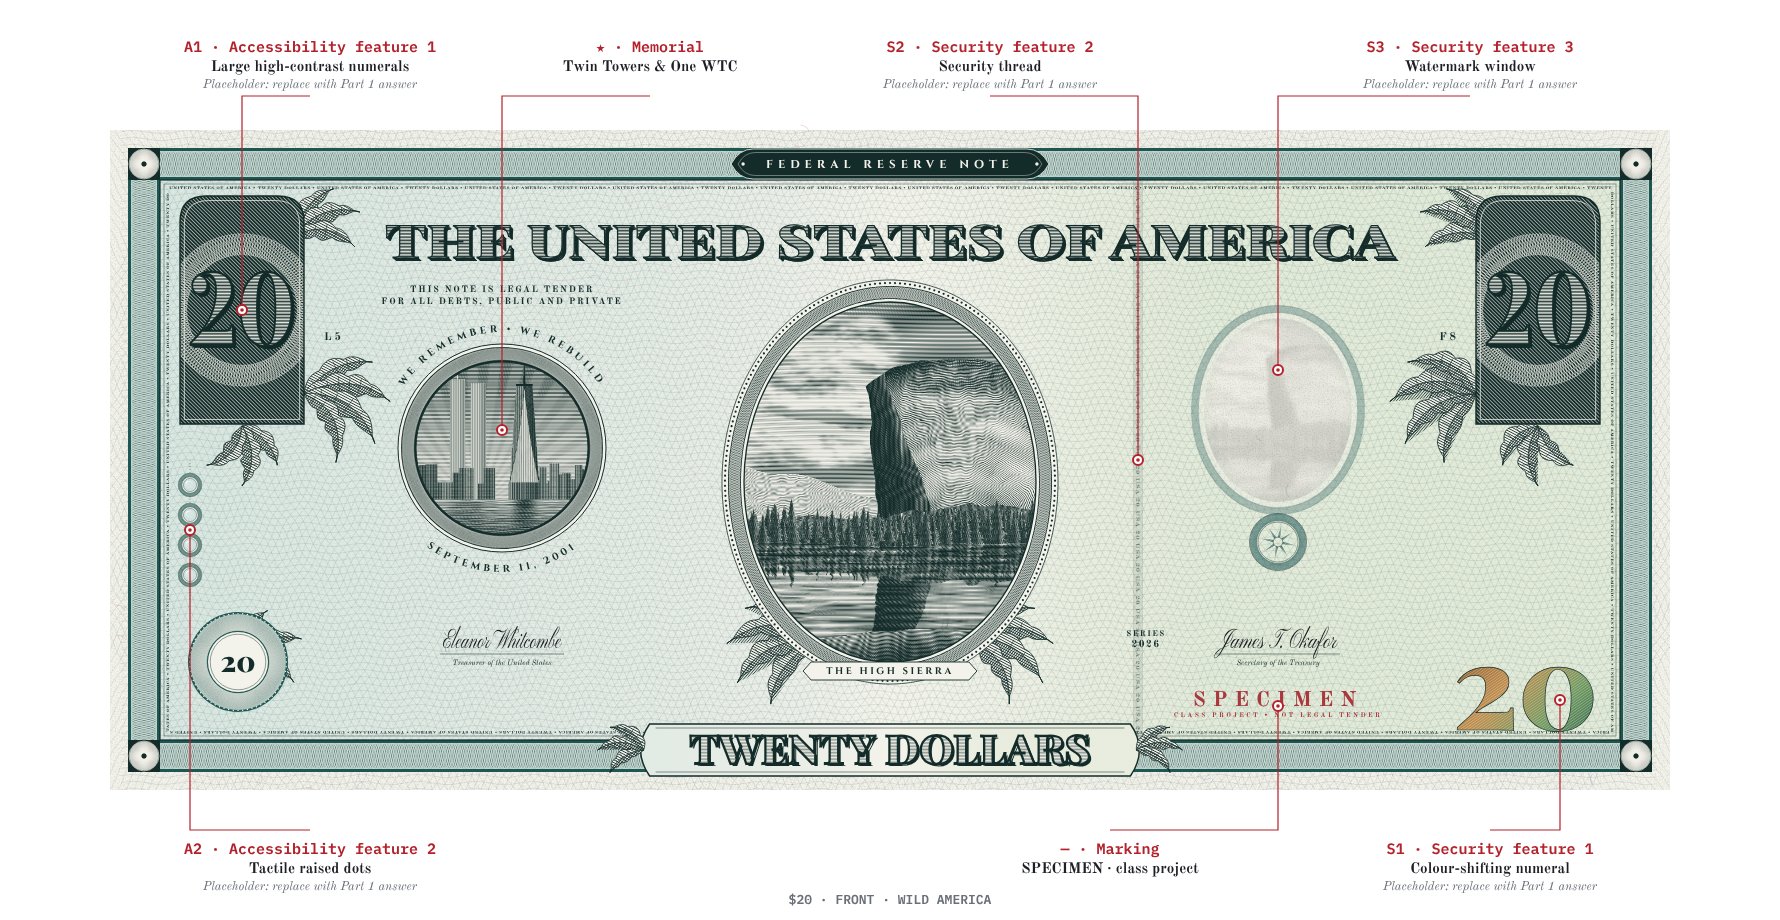
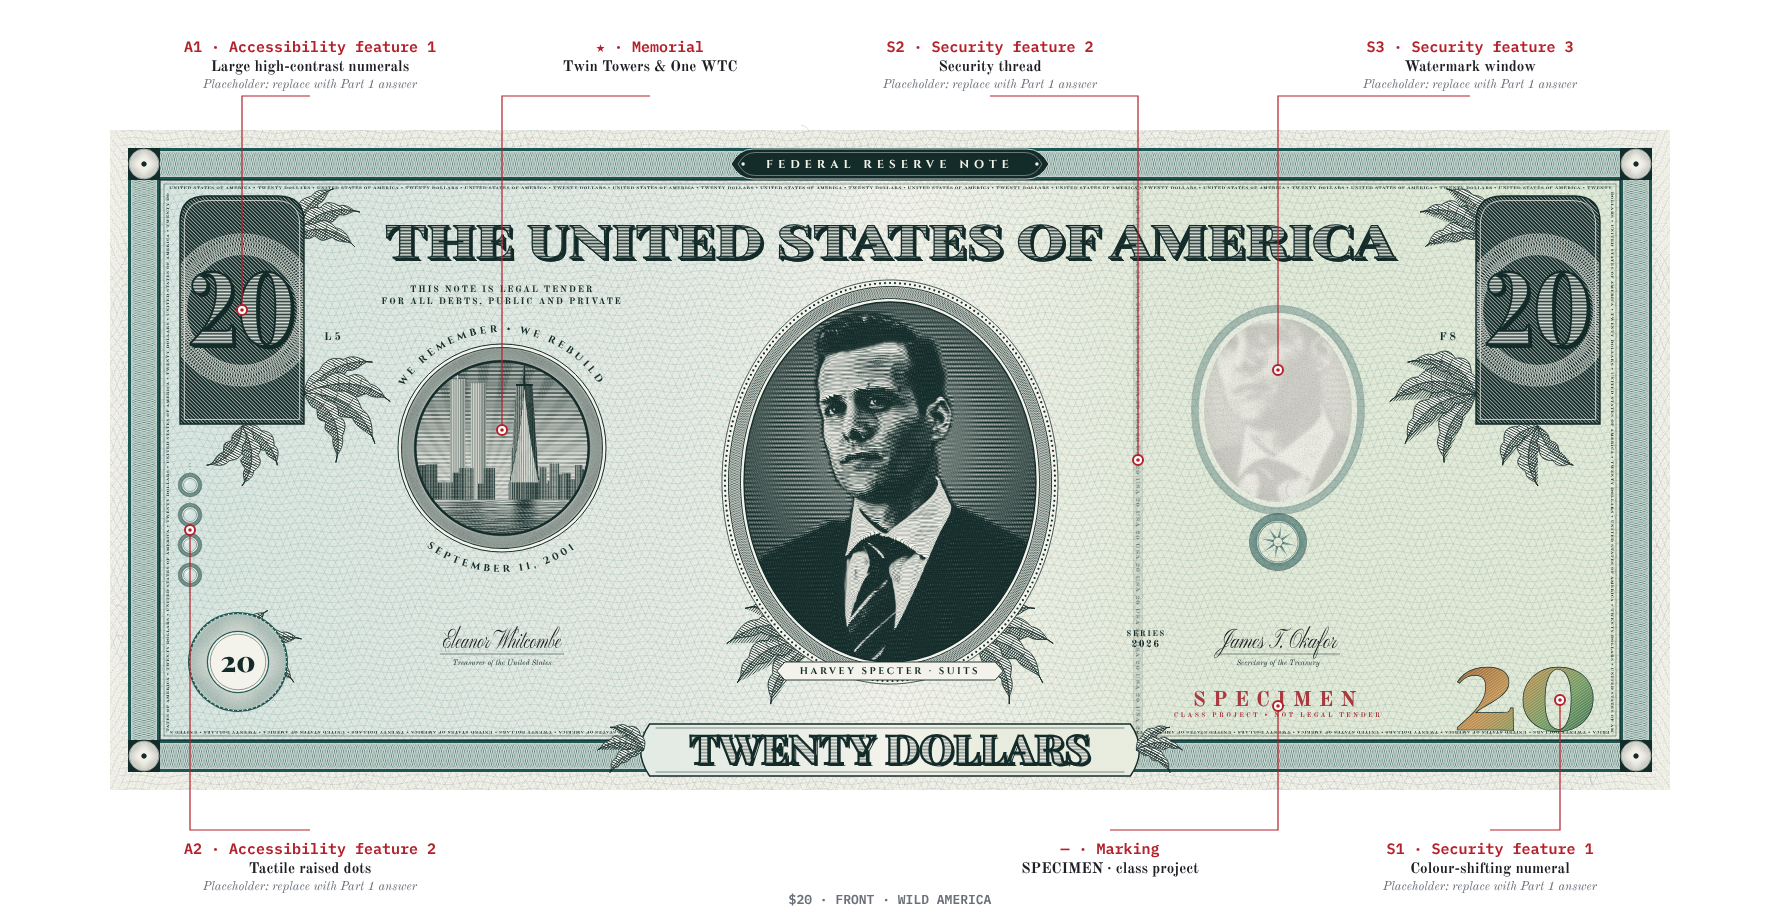
Put Harvey Specter on the $20 front
Claude-Session: https://claude.ai/code/session_015KBLhp8b1QN2JqUJfMzhqz

Changed region(s): [[0.4017, 0.3348, 0.5871, 0.7609], [0.6798, 0.3652, 0.7416, 0.4565], [0.6798, 0.487, 0.7416, 0.5174]]

diff --git a/generator/design/notes.js b/generator/design/notes.js
@@ -19,7 +19,7 @@ const DENOMS = {
        plate: "#132b29", primary: "#1d5753", secondary: "#2e5b3b", tint1: "#cfe2dd", tint2: "#dbe6d1", paper: "#f4f3eb",
        pattern: "hexweave", patternOpts: { gap: 7 }, ovi: ["#6a3f1a", "#bf8e50", "#6f9a63", "#215a49"],
        sealInk: "#161c1b", district: 12, letter: "L", city: "SAN FRANCISCO", serial: "SL 39027584 D", plateNo: "F 8", check: "L 5",
-       thread: 1028, dots: 4, front: { scene: "twenty-front", caption: "THE HIGH SIERRA" }, back: { scene: "twenty-back", caption: "THE GIANT SEQUOIA GROVE" } },
+       thread: 1028, dots: 4, front: { scene: "twenty-front", caption: "HARVEY SPECTER \u00b7 SUITS" }, back: { scene: "twenty-back", caption: "THE GIANT SEQUOIA GROVE" } },
   50: { v: 50, word1: "FIFTY", words: "FIFTY DOLLARS", theme: "Democracy",
        plate: "#2e1519", primary: "#6e2232", secondary: "#a88645", tint1: "#ecd7d6", tint2: "#efe5cf", paper: "#f6f2ea",
        pattern: "chevron", patternOpts: { gap: 5.5 }, serialInk: "#7e5f25", sealColor: "#8f6f30", ovi: ["#6a2a1f", "#b7874a", "#8c9a55", "#2f5e45"],

diff --git a/generator/portraits/prep.py b/generator/portraits/prep.py
@@ -98,6 +98,7 @@ outputs = {
     "five-back": scene("wardogs-scene.png", (349, 0, 420), gamma=.75),
     "fifty-back": scene("takecare.png", (112, 18, 156), blur=.4, gamma=.7),
     "hundred-back": scene("wolf-yacht.png", (345, 0, 452), gamma=.85),
+    "twenty-front": person("specter.png", (378, 10, 405), keep_x=(205, 600)),
     "five-front": person("hill.png", (186, 74, 250)),
     "ten-front": person("jobs.png", (180, 0, 411), not_white=True),
     "hundred-front": person("dicaprio.png", (229, 138, 330), keep_x=(110, 340)),
